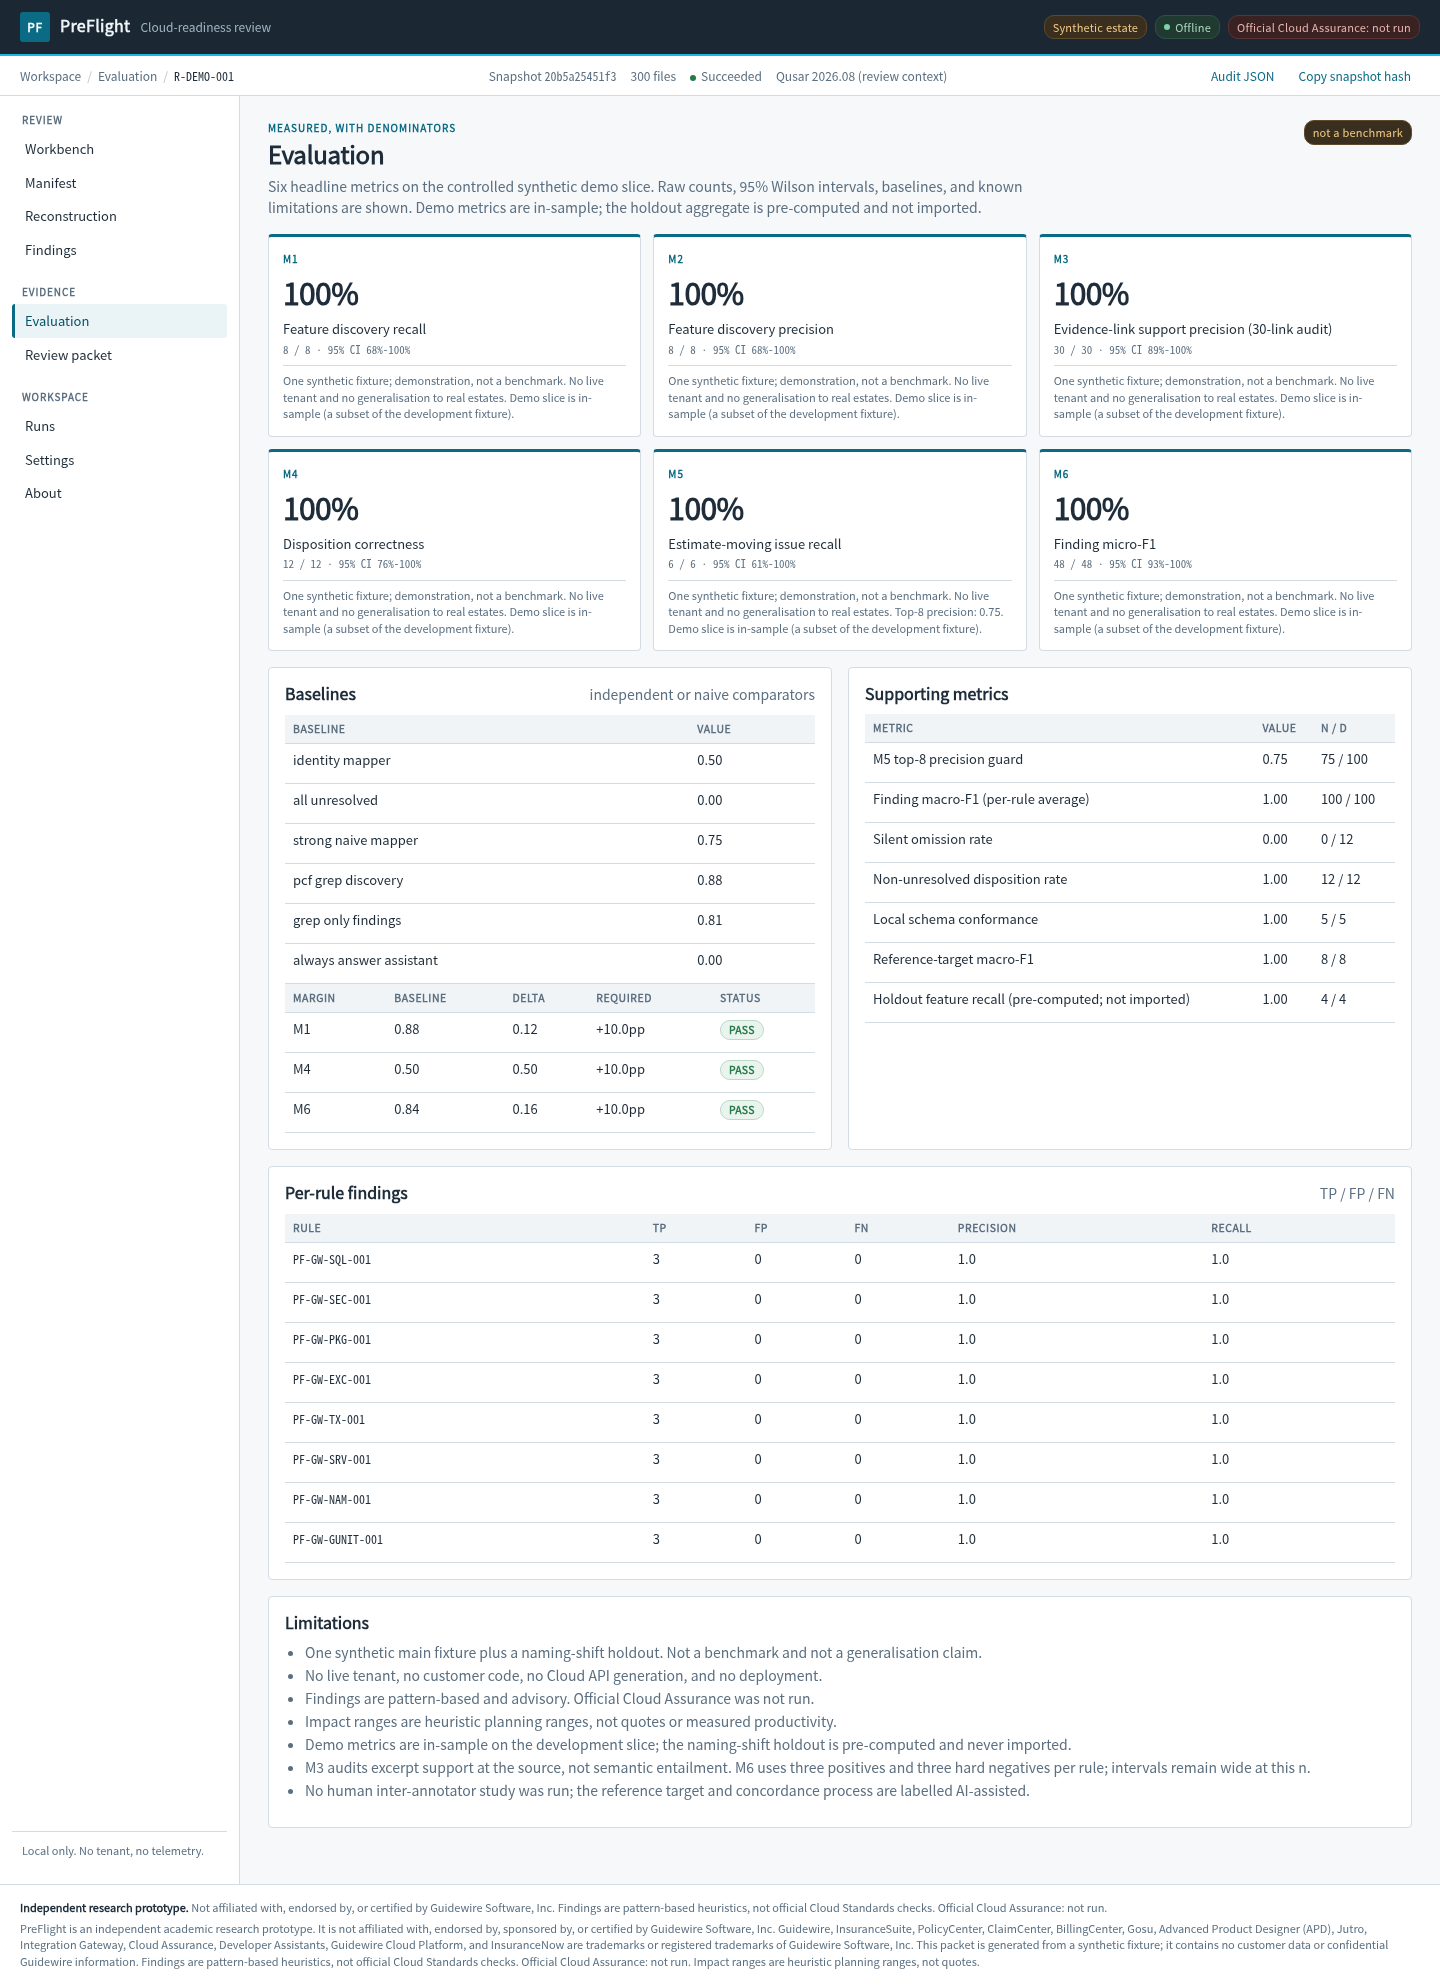
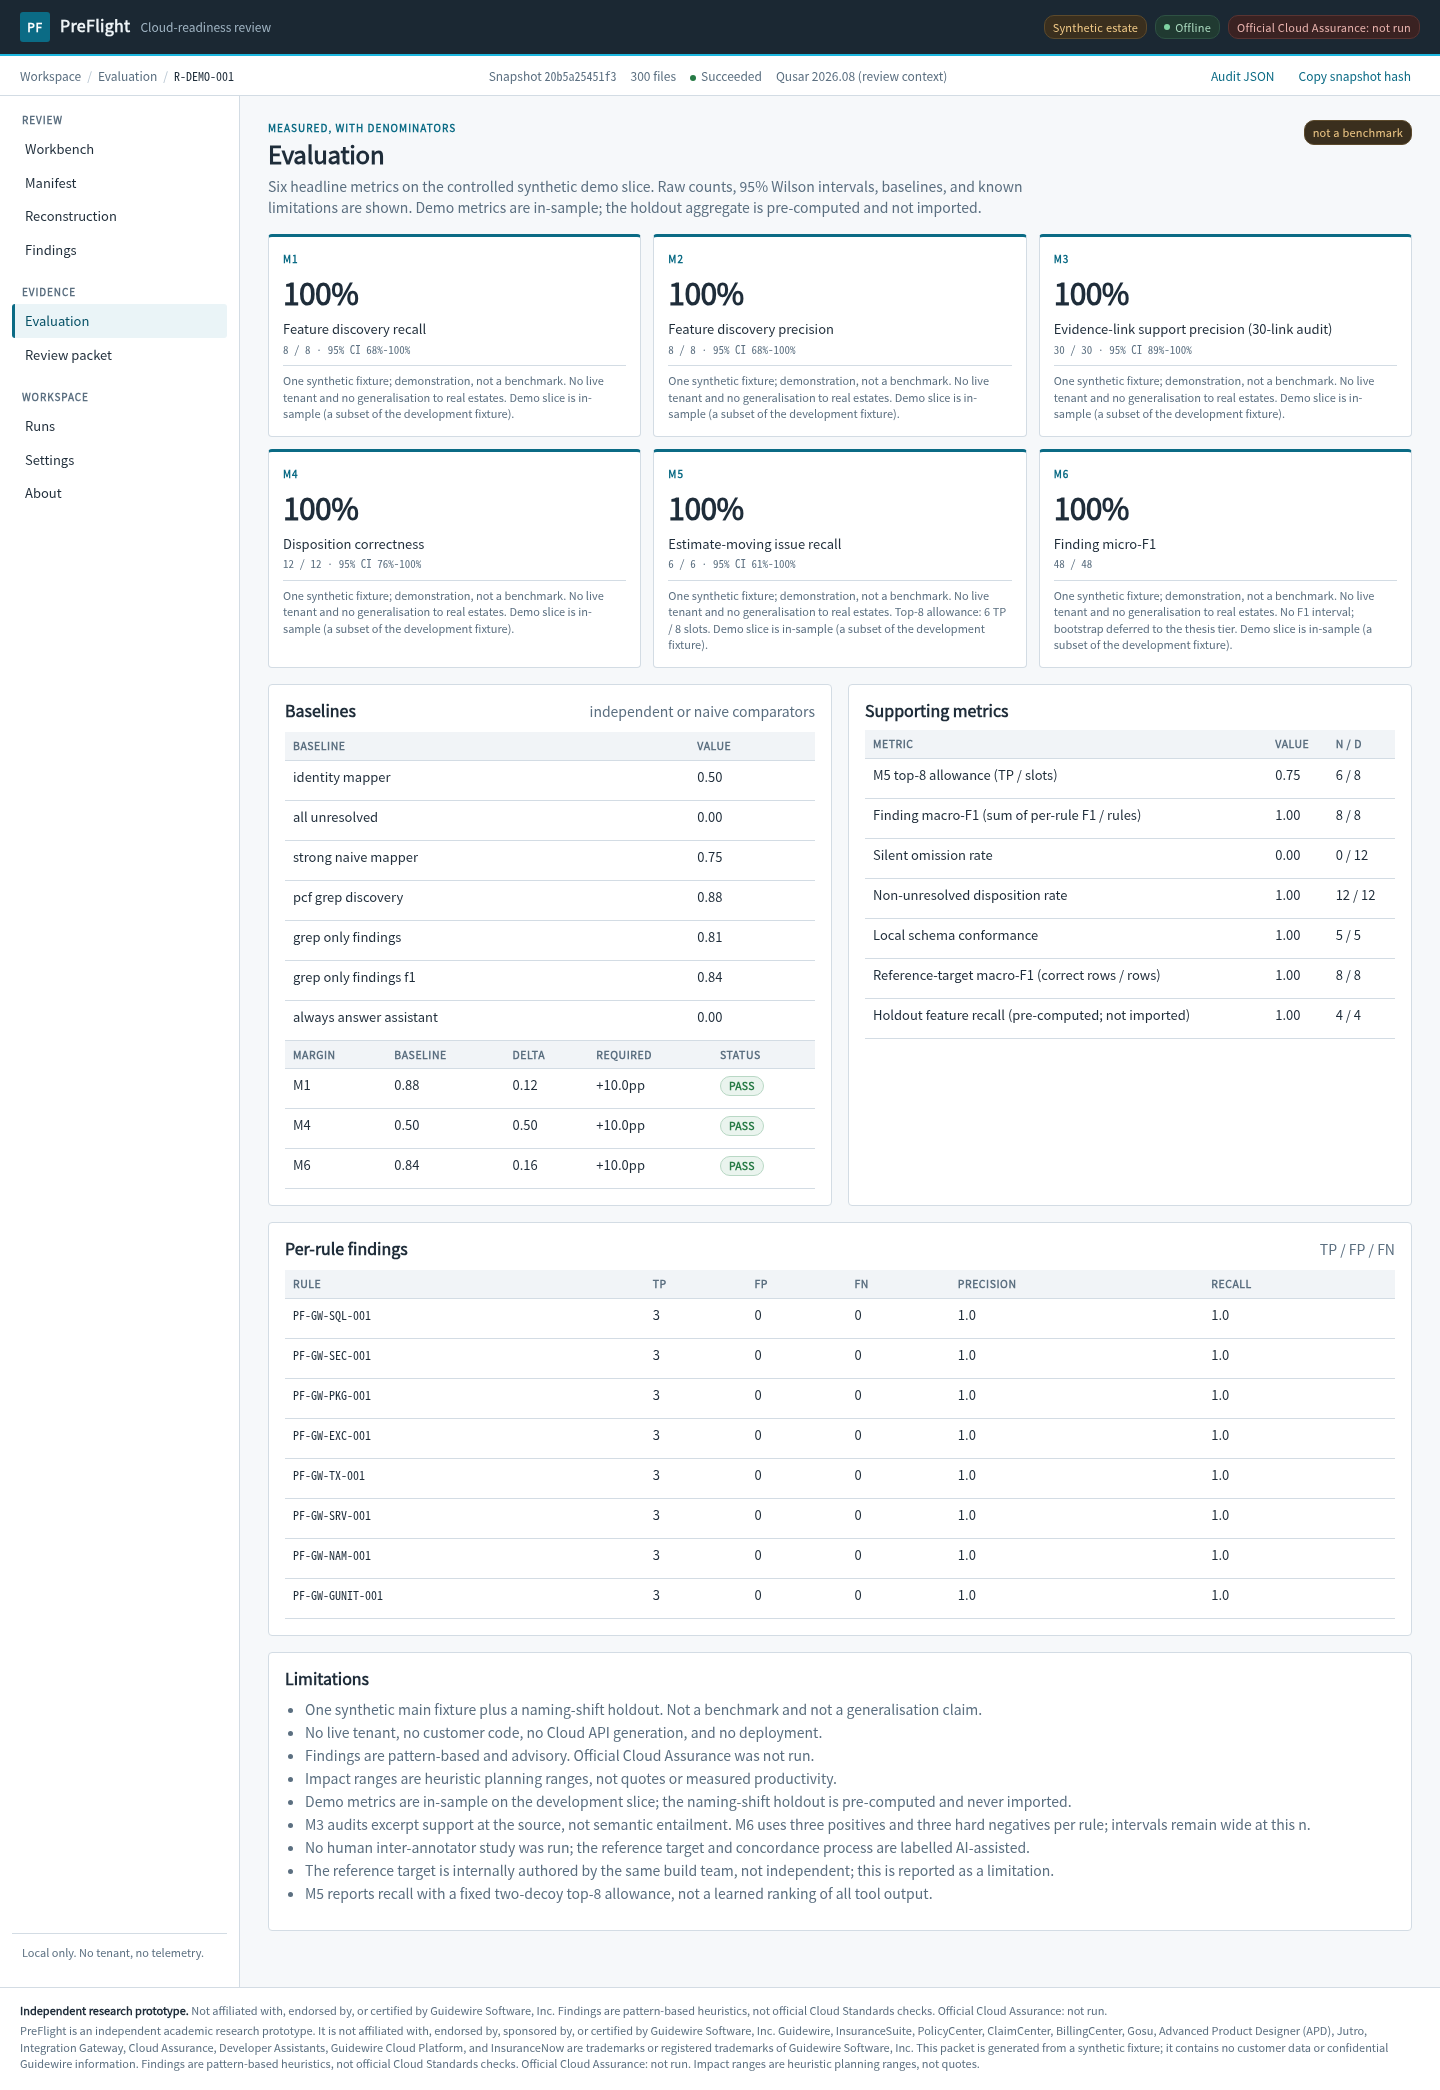
Close final precision blockers and align metric presentation

diff --git a/app/templates/packet_document.html b/app/templates/packet_document.html
@@ -91,14 +91,14 @@
   <h2>4. Assumption register</h2>
   {% if assumptions %}
   <table>
-    <tr><th>ID</th><th>Statement</th><th>Impact</th><th>Question to ask</th><th>Owner</th></tr>
+    <tr><th>ID</th><th>Statement</th><th>Impact</th><th>Question to ask</th><th>Owner</th><th>Status</th></tr>
     {% for item in assumptions %}
     <tr>
       <td>{{ item.assumption_id }}</td>
       <td>{{ item.statement }}</td>
       <td>{{ item.impact }} ({{ item.impact_range_days[0] }}-{{ item.impact_range_days[1] }} engineer-days)</td>
       <td>{{ item.question_to_ask }}</td>
-      <td>{{ item.owner }}</td>
+      <td>{{ item.owner }}</td><td>{{ item.status }}</td>
     </tr>
     {% endfor %}
   </table>

diff --git a/app/services/review.py b/app/services/review.py
@@ -34,7 +34,7 @@ RULES_PATH = Path(__file__).resolve().parents[2] / "rules" / "review_rules.yaml"
 THEME_RULES = {"PF-GW-LOG-001", "PF-GW-LOG-002"}
 
 SECRET_KEYS = re.compile(
-    r'(?i)\b([A-Za-z_][A-Za-z0-9_]*)\s*(?::\s*[^=\n]+?)?=\s*"([^"]*)"'
+    r'(?i)\b([A-Za-z_][A-Za-z0-9_]*)\s*(?::\s*[A-Za-z_][A-Za-z0-9_.<>\[\]]*)?\s*=\s*"([^"]*)"'
 )
 SECRET_PLACEHOLDERS = {
     "changeme", "<placeholder>", "placeholder", "***", "", "redacted", "example",
@@ -181,6 +181,8 @@ def run_review(root: Path, manifest: Manifest, discovery: DiscoveryResult,
                     name = match.group(1)
                     normalized = re.sub(r"([a-z0-9])([A-Z])", r"\1_\2", name).lower()
                     parts = [part for part in re.split(r"[_\-\s]+", normalized) if part]
+                    if parts and parts[-1] in SAFE_KEY_SUFFIXES:
+                        continue
                     sensitive = any(part in SENSITIVE_NAME_PARTS for part in parts)
                     if not sensitive and normalized.endswith("_key"):
                         sensitive = bool(set(parts[:-1]) & {"api", "private", "access", "secret", "client", "signing", "encryption"})
@@ -205,7 +207,8 @@ def run_review(root: Path, manifest: Manifest, discovery: DiscoveryResult,
                         continue
                     fingerprint = hashlib.sha256(value.encode("utf-8")).hexdigest()[:8]
                     line = _line_at(raw, match.start())
-                    excerpt = _excerpt_at(raw, line).replace(value, f"[REDACTED:{fingerprint}]")
+                    excerpt = _excerpt_at(raw, line)
+                    excerpt = re.sub(r'"[^"]*"', '"[REDACTED]"', excerpt)
                     ev = collector.add(path=rel, line=line, excerpt=excerpt,
                                        method="regex_masked", redacted=True)
                     emit("PF-GW-SEC-001", evidence=ev,
@@ -213,7 +216,6 @@ def run_review(root: Path, manifest: Manifest, discovery: DiscoveryResult,
                              f"Hard-coded value assigned to '{name}' at {rel}:{line}. "
                              f"Value redacted (fingerprint {fingerprint})."
                          ), bucket=findings)
-                    break
 
             if "PF-GW-EXC-001" in rules:
                 for match in re.finditer(r"catch\s*\([^)]*\)\s*\{", masked):

diff --git a/app/services/evaluate.py b/app/services/evaluate.py
@@ -231,9 +231,9 @@ def evaluate_run(*, fixture_id: str, manifest: Manifest, discovery: DiscoveryRes
         _metric("M5", "Estimate-moving issue recall", m5_recall_num, len(issue_ids),
                 fixture_id=fixture_id, tier=tier, primary=True,
                 caveat=CAVEAT + f" Top-8 allowance: {m5_recall_num} TP / {top8_slots} slots. " + DEMO_NOTE),
-        _metric("M6", "Finding micro-F1", 2 * tp_total, f1_den,
+        _metric("M6", "Finding micro-F1 (2TP / (2TP+FP+FN))", 2 * tp_total, f1_den,
                 fixture_id=fixture_id, tier=tier, primary=True,
-                caveat=CAVEAT + " No F1 interval; bootstrap deferred to the thesis tier. " + DEMO_NOTE,
+                caveat=CAVEAT + f" {tp_total} TP / {fp_total} FP / {fn_total} FN across 8 rules; fraction is the F1 numerator/denominator. No F1 interval; bootstrap deferred. " + DEMO_NOTE,
                 interval=False),
     ]
 
@@ -254,7 +254,7 @@ def evaluate_run(*, fixture_id: str, manifest: Manifest, discovery: DiscoveryRes
         _metric("SCHEMA-CONFORMANCE", "Local schema conformance",
                 len(reconstruction.changes) - len(reconstruction.validation_errors),
                 len(reconstruction.changes), fixture_id=fixture_id, tier=tier, primary=False),
-        _metric("REFERENCE-F1", "Reference-target macro-F1 (correct rows / rows)",
+        _metric("REFERENCE-F1", "Reference-target macro-F1 (scaled to rows)",
                 int(round(comparison.macro_f1 * reference_rows)), reference_rows,
                 fixture_id=fixture_id, tier=tier, primary=False),
     ]
@@ -331,11 +331,11 @@ def evaluate_run(*, fixture_id: str, manifest: Manifest, discovery: DiscoveryRes
     baselines = {
         "identity_mapper": identity_correct / max(1, len(gold_mappings)),
         "all_unresolved": 0.0,
-        "strong_naive_mapper": strong_naive_correct / max(1, len(gold_mappings)),
+        "normalized_name_mapper": strong_naive_correct / max(1, len(gold_mappings)),
         "pcf_grep_discovery": pcf_baseline,
         "grep_only_findings": grep_precision,
         "grep_only_findings_f1": grep_f1,
-        "always_answer_assistant": 0.0,
+        "always_answer_assistant_refusal_recall": 0.0,
     }
 
     metric_values = {m.metric_id: m.value for m in metrics}

diff --git a/tests/test_false_positives.py b/tests/test_false_positives.py
@@ -384,3 +384,62 @@ class DoubleCommit {
     })
     matches = [f for f in review.findings if f.rule_id == "PF-GW-TX-001"]
     assert len(matches) == 2
+
+
+def test_custom_receiver_statement_calls_are_not_sql(tmp_path: Path) -> None:
+    review = review_files(tmp_path, {
+        "gsrc/gate/CustomDao.gs": '''package gate
+class CustomDao {
+  function run(dao : CustomDao) {
+    dao.createStatement("hello")
+    dao.prepareStatement("hello")
+  }
+}
+''',
+    })
+    assert paths_for(review, "PF-GW-SQL-001") == set()
+
+
+def test_safe_suffix_secret_names_are_not_flagged(tmp_path: Path) -> None:
+    review = review_files(tmp_path, {
+        "gsrc/gate/SafeNames.gs": '''package gate
+class SafeNames {
+  var tokenUrl = "https://example.test/token"
+  var passwordPolicy = "standard-policy"
+  var secretName = "primary"
+  var tokenEndpoint = "https://example.test"
+}
+''',
+    })
+    assert paths_for(review, "PF-GW-SEC-001") == set()
+
+
+def test_multiple_secrets_are_found_and_all_values_redacted(tmp_path: Path) -> None:
+    review = review_files(tmp_path, {
+        "gsrc/gate/MultiSecret.gs": '''package gate
+class MultiSecret {
+  var apiKey = "sk-live-aaa111"
+  var password = "hunter2"
+  var clientSecret = "cs-live-bbb222"
+}
+''',
+    })
+    matches = [f for f in review.findings if f.rule_id == "PF-GW-SEC-001"]
+    assert len(matches) == 3
+    for finding in matches:
+        for evidence_id in finding.evidence_ids:
+            ev = next(e for e in review.evidence if e.evidence_id == evidence_id)
+            assert "hunter2" not in ev.excerpt
+            assert "sk-live-aaa111" not in ev.excerpt
+            assert "cs-live-bbb222" not in ev.excerpt
+
+
+def test_parameter_property_secret_is_detected(tmp_path: Path) -> None:
+    review = review_files(tmp_path, {
+        "gsrc/gate/ParamSecret.gs": '''package gate
+class ParamSecret {
+  function set(c : Config) { c.password = "hunter2" }
+}
+''',
+    })
+    assert "gsrc/gate/ParamSecret.gs" in paths_for(review, "PF-GW-SEC-001")

diff --git a/ground_truth/PRE_REGISTRATION.md b/ground_truth/PRE_REGISTRATION.md
@@ -29,7 +29,7 @@ The holdout is never imported into the demo, never used to author rules, and nev
 | All-unresolved mapper | Floor; proves coverage is not vacuous. | PreFlight must beat. |
 | Grep-only findings scan | Tests whether masking/allowlists improve precision. | PreFlight should improve precision without losing recall. |
 | PCF+grep discovery | Tests whether cross-artefact linking improves recall. | PreFlight should improve feature recall by ≥10pp. |
-| Strong naive (normalized fuzzy names + curated regex + allowlists + PCF) | Realistic non-graph baseline. | PreFlight should beat on evidence precision and estimate-moving recall. |
+| Normalized-name mapper (demo approximation of a strong naive baseline) | Tests whether reconstruction beats copying normalized names. | PreFlight should beat on disposition correctness. |
 | Always-answer assistant | Tests refusal/citation value. | PreFlight should improve refusal precision and citation correctness. |
 
 ## 3.1 Baseline × metric matrix (pre-registered margins)
@@ -78,7 +78,7 @@ Demo: 8 rules × 6 cases (3 positive, 3 hard negative) = 48 labelled findings. T
 - Feature: same business capability **and** at least one gold anchor path present in the candidate evidence.
 - Evidence: path resolves, locator is in range, and the excerpt appears at the source after whitespace normalization. This is a support audit, not semantic entailment.
 - Mapping: source property + target property + disposition must all match; extra mappings are penalised.
-- Finding: rule ID + path + line overlap; per-rule TP/FP/FN.
+- Finding: rule ID + path overlap; line-level matching is deferred to the thesis tier.
 - Comparison: property-level; target scope completeness flag.
 
 ## 6. Annotation and agreement
